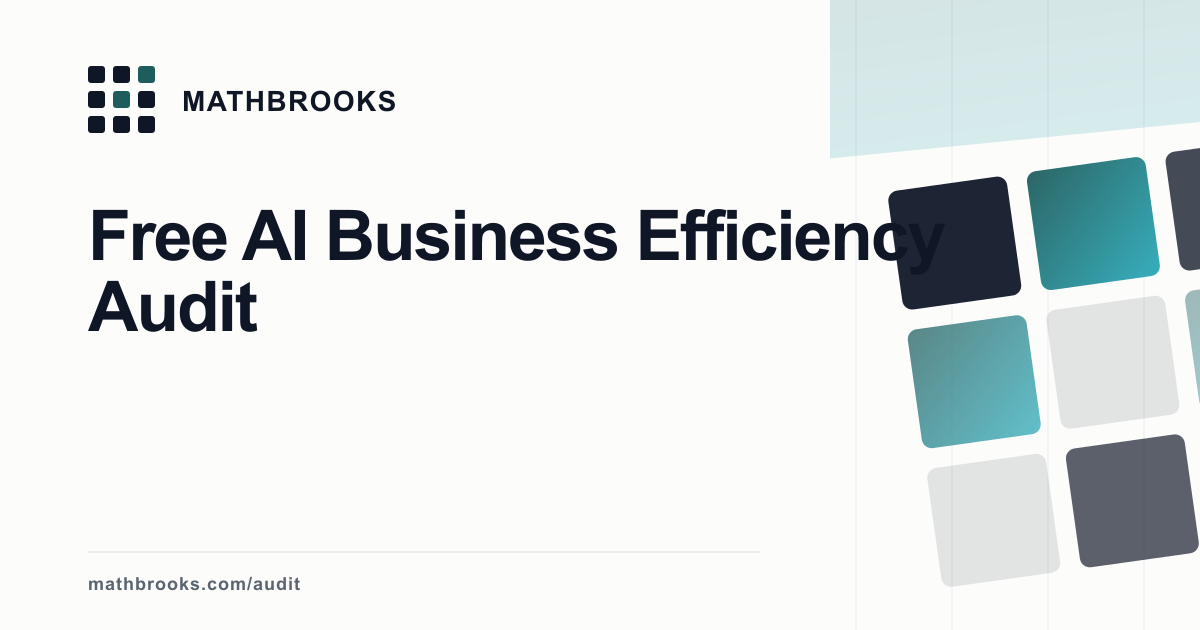
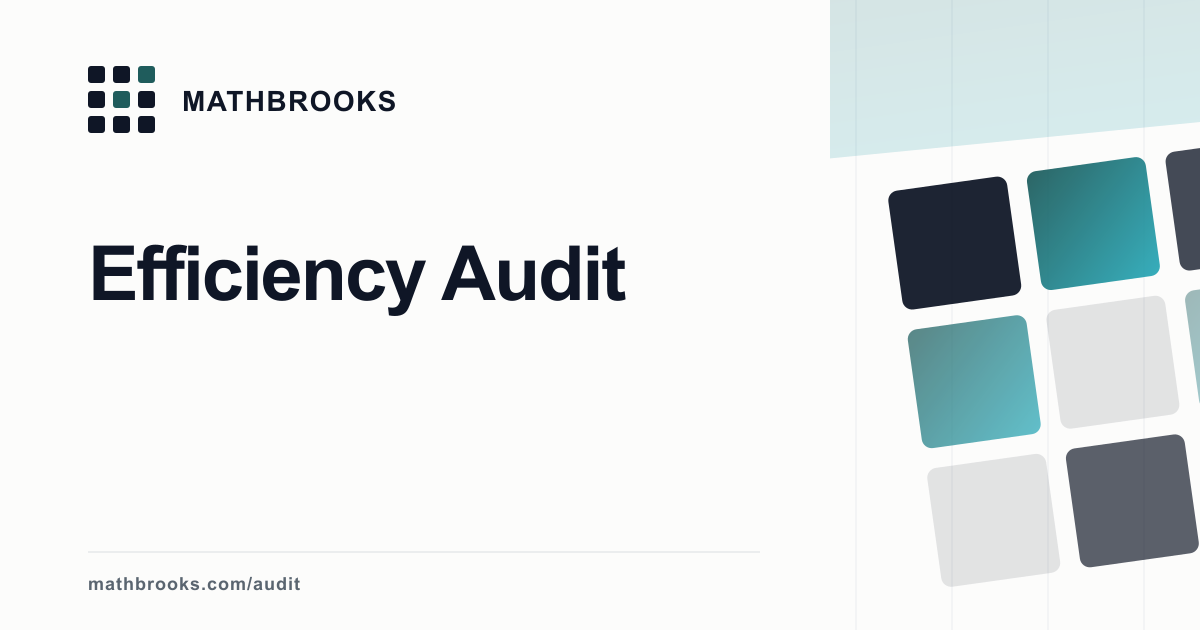
Shorten /audit thumbnail title to Efficiency Audit

Changed region(s): [[0.0617, 0.3317, 0.7708, 0.5429]]

diff --git a/src/entry-server.tsx b/src/entry-server.tsx
@@ -42,7 +42,7 @@ export const socialImageEntries = [
   {
     path: "/audit",
     output: "audit.png",
-    title: "Free AI Business Efficiency Audit",
+    title: "Efficiency Audit",
   },
 ];
 
